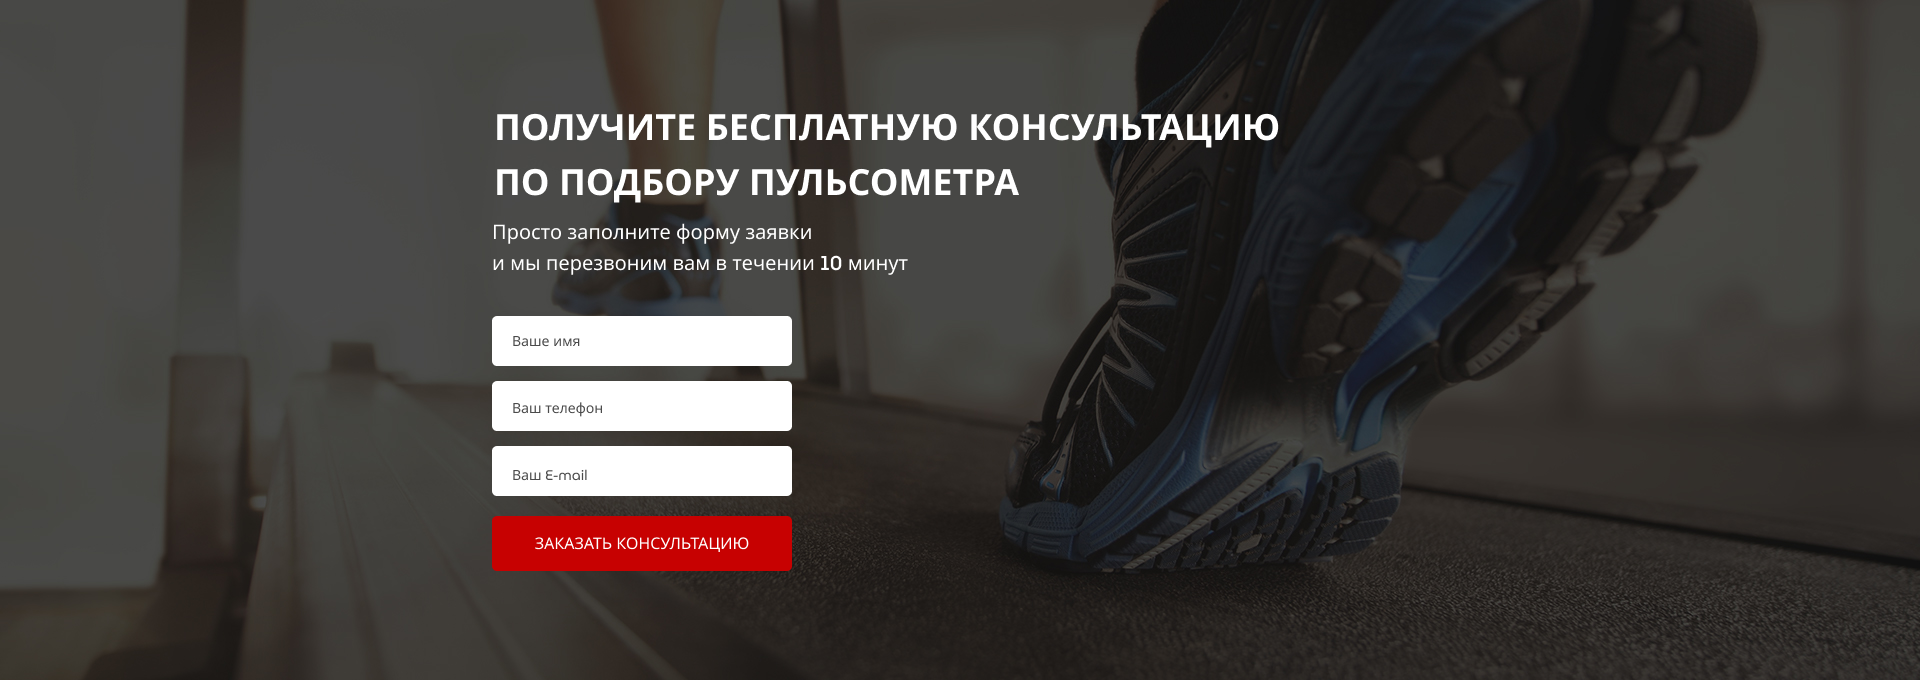
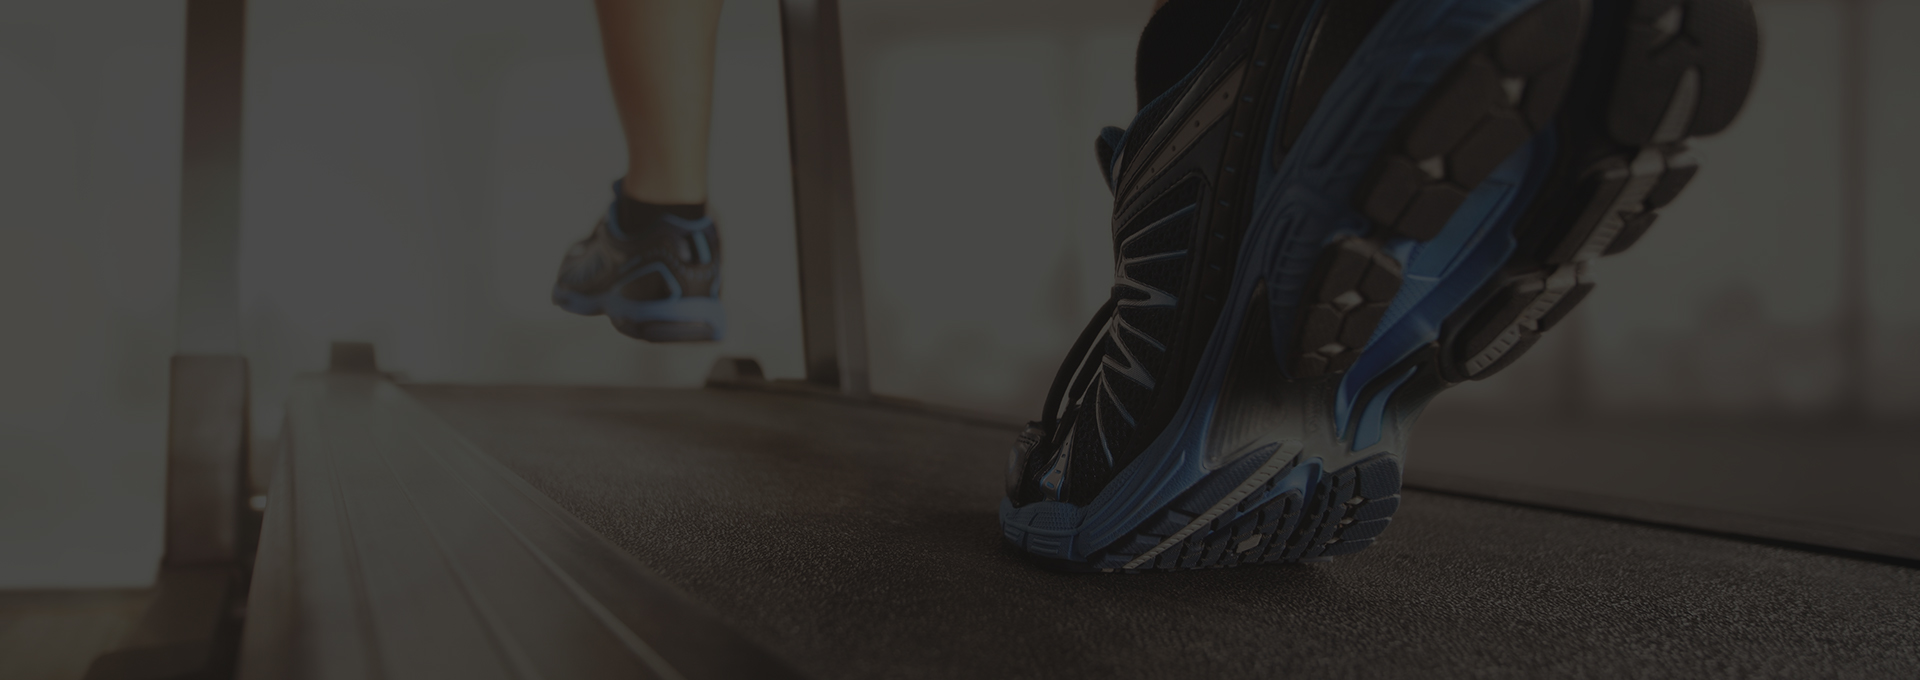
form section with adaptation

diff --git a/48/src/css/style.min.css b/48/src/css/style.min.css
@@ -1,1 +1,1 @@
-*{font-family:"Museo Sans",sans-serif}.container{max-width:950px;margin:0 auto}.promo{min-height:650px;padding:21px 0 93px 0;background:url(../img/bg/girl.png) center center/cover no-repeat}.promo__wrapper{display:flex;flex-direction:column;align-items:flex-end;margin-top:90px}.promo__header{font-weight:700;font-size:42px;line-height:42px;text-transform:uppercase;color:#fff}.promo__subheader{font-weight:500;font-size:24px;line-height:24px;text-transform:uppercase;color:#fff;margin-top:17px}.promo__icons{margin-top:60px;display:flex;width:425px;justify-content:space-between}.promo__icon{width:108px;text-align:center;font-weight:500;font-size:14px;color:#fff}.promo__icon img{display:block;margin:0 auto;margin-bottom:20px}.promo__link{font-weight:500;font-size:16px;margin-top:18px;color:#fff}.promo__link a{text-transform:uppercase;text-decoration:underline;color:#fff}.header{display:flex;justify-content:space-between;align-items:center}.header__logo{width:250px}.header__logo img{width:100%}.header__official{font-weight:300;font-size:12px;text-align:center;color:#fff}.header__official span{display:block;font-size:18px;font-weight:500}.header__phone{display:block;font-weight:700;font-size:18px;color:#fff;text-decoration:none}.header__phone:hover{color:#fff}.header__contacts{display:flex;flex-direction:column;align-items:flex-end}.button{width:153px;height:32px;background:#c70101;border-radius:5px;border:none;font-weight:500;font-size:12px;text-transform:uppercase;color:#fff}.button_main{width:300px;height:50px;font-size:16px;margin-top:67px}.advantages{min-height:433px;padding:73px 0 65px 0;background:#f6f6f6}.advantages__title{font-weight:700;font-size:30px;color:#0d0d0d;text-align:center;margin-top:35px}.advantages__wrapper{display:flex;justify-content:space-between;margin-top:60px}.advantages__wrapper img{display:block;margin:0 auto}.advantages__card{width:270px}.advantages__card:not(:last-child){margin-right:65px}.advantages__subtitle{font-weight:700;font-size:18px;color:#0d0d0d;margin-top:20px;text-align:center;color:#0d0d0d}.advantages__text{margin-top:20px;text-align:center;font-weight:500;font-size:14px;color:#0d0d0d}.advantages__text a{font-size:14px;-webkit-text-decoration-line:underline;text-decoration-line:underline;color:red}@media(max-width:991px){.promo__wrapper{align-items:center}}@media(max-width:629px){.header{justify-content:space-around}.header__logo{display:none}.header__official span{font-size:14px}.header__phone{font-size:13px;width:124px}.header__contacts .button{width:124px}.promo__header{font-size:26px}.promo__subheader{font-size:21px;text-align:center}.promo__icons{justify-content:center}.advantages__title{font-size:21px}.advantages__wrapper{justify-content:center;flex-wrap:wrap}.advantages__wrapper .advantages__card{margin:0}.advantages__subtitle{margin-top:15px}.advantages__text{margin-top:10px}}
+*{font-family:"Museo Sans",sans-serif}.container{max-width:950px;margin:0 auto}.promo{min-height:650px;padding:21px 0 93px 0;background:url(../img/bg/girl.png) center center/cover no-repeat}.promo__wrapper{display:flex;flex-direction:column;align-items:flex-end;margin-top:90px}.promo__header{font-weight:700;font-size:42px;line-height:42px;text-transform:uppercase;color:#fff}.promo__subheader{font-weight:500;font-size:24px;line-height:24px;text-transform:uppercase;color:#fff;margin-top:17px}.promo__icons{margin-top:60px;display:flex;width:425px;justify-content:space-between}.promo__icon{width:108px;text-align:center;font-weight:500;font-size:14px;color:#fff}.promo__icon img{display:block;margin:0 auto;margin-bottom:20px}.promo__link{font-weight:500;font-size:16px;margin-top:18px;color:#fff}.promo__link a{text-transform:uppercase;text-decoration:underline;color:#fff}.header{display:flex;justify-content:space-between;align-items:center}.header__logo{width:250px}.header__logo img{width:100%}.header__official{font-weight:300;font-size:12px;text-align:center;color:#fff}.header__official span{display:block;font-size:18px;font-weight:500}.header__phone{display:block;font-weight:700;font-size:18px;color:#fff;text-decoration:none}.header__phone:hover{color:#fff}.header__contacts{display:flex;flex-direction:column;align-items:flex-end}.button{width:153px;height:32px;background:#c70101;border-radius:5px;border:none;font-weight:500;font-size:12px;text-transform:uppercase;color:#fff}.button_main{width:300px;height:50px;font-size:16px;margin-top:67px}.button_submit{width:100%;height:58px;font-size:16px}.advantages{min-height:433px;padding:73px 0 65px 0;background:#f6f6f6}.advantages__title{font-weight:700;font-size:30px;color:#0d0d0d;text-align:center;margin-top:35px}.advantages__wrapper{display:flex;justify-content:space-between;margin-top:60px}.advantages__wrapper img{display:block;margin:0 auto}.advantages__card{width:270px}.advantages__card:not(:last-child){margin-right:65px}.advantages__subtitle{font-weight:700;font-size:18px;color:#0d0d0d;margin-top:20px;text-align:center;color:#0d0d0d}.advantages__text{margin-top:20px;text-align:center;font-weight:500;font-size:14px;color:#0d0d0d}.advantages__text a{font-size:14px;-webkit-text-decoration-line:underline;text-decoration-line:underline;color:red}.consultation{min-height:680px;padding:100px 0 0 92px;background:url(../img/bg/foot.png) center center/cover no-repeat}.consultation__descr{color:#fff;font-size:20px;font-weight:500}.title{color:#0d0d0d;font-size:30px;font-weight:700;text-align:center;text-transform:uppercase}.title_left{color:#fff;font-size:36px;line-height:55px;text-align:left}.feed-form{margin-top:36px;display:flex;flex-direction:column;width:300px}.feed-form input{height:50px;border-radius:5px;background-color:#fff;margin-bottom:15px;border:none;padding:0 20px;font-weight:300;font-size:14px;color:#4b4b4b}.feed-form input:last-of-type{margin-bottom:20px}@media(max-width:991px){.promo__wrapper{align-items:center}.title_left{font-size:30px;line-height:39px}}@media(max-width:629px){.header{justify-content:space-around}.header__logo{display:none}.header__official span{font-size:14px}.header__phone{font-size:13px;width:124px}.header__contacts .button{width:124px}.promo__header{font-size:26px}.promo__subheader{font-size:21px;text-align:center}.promo__icons{justify-content:center}.advantages__title{font-size:21px}.advantages__wrapper{justify-content:center;flex-wrap:wrap}.advantages__wrapper .advantages__card{margin:0}.advantages__subtitle{margin-top:15px}.advantages__text{margin-top:10px}.title_left{font-size:21px}.consultation{padding-left:7px}.consultation__descr{font-size:18px}}

diff --git a/48/src/index.html b/48/src/index.html
@@ -71,6 +71,22 @@
 
 		</div>
 	</section>
+
+	<div class="consultation">
+		<div class="container">
+			<h2 class="title title_left">Получите бесплатную консультацию <br>
+				по подбору пульсометра </h2>
+			<div class="consultation__descr">Просто заполните форму заявки <br>
+				и мы перезвоним вам в течении 10 минут
+			</div>
+			<form class="feed-form" action="#">
+				<input name="name" required placeholder="Ваше имя" value="" type="text">
+				<input name="phone" required placeholder="Ваш телефон" type="number">
+				<input name="email" required placeholder="Ваш email" value="" type="email">
+				<button class="button button_submit">Заказать консультацию</button>
+			</form>
+		</div>
+	</div>
 </body>
 
 </html>

diff --git a/48/src/sass/base/_media.scss b/48/src/sass/base/_media.scss
@@ -4,6 +4,12 @@
       align-items: center;
     }
   }
+  .title {
+    &_left {
+      font-size: 30px;
+      line-height: 39px;
+    }
+  }
 }
 
 @media (max-width: 629px) {
@@ -55,6 +61,17 @@
     }
     &__text {
       margin-top: 10px;
+    }
+  }
+  .title {
+    &_left {
+      font-size: 21px;
+    }
+  }
+  .consultation {
+    padding-left: 7px;
+    &__descr {
+      font-size: 18px;
     }
   }
 }

diff --git a/48/src/sass/blocks/_forms.scss b/48/src/sass/blocks/_forms.scss
@@ -1,0 +1,21 @@
+.feed-form {
+  margin-top: 36px;
+  display: flex;
+  flex-direction: column;
+  width: 300px;
+  input {
+    height: 50px;
+    border-radius: 5px;
+    background-color: white;
+    margin-bottom: 15px;
+    border: none;
+    padding: 0 20px;
+    font-weight: 300;
+    font-size: 14px;
+    color: #4b4b4b;
+
+    &:last-of-type {
+      margin-bottom: 20px;
+    }
+  }
+}

diff --git a/48/src/sass/blocks/_titles.scss b/48/src/sass/blocks/_titles.scss
@@ -1,0 +1,13 @@
+.title {
+  color: #0d0d0d;
+  font-size: 30px;
+  font-weight: 700;
+  text-align: center;
+  text-transform: uppercase;
+  &_left {
+    color: white;
+    font-size: 36px;
+    line-height: 55px;
+    text-align: left;
+  }
+}

diff --git a/48/src/sass/blocks/_consultation.scss b/48/src/sass/blocks/_consultation.scss
@@ -1,0 +1,10 @@
+.consultation {
+  min-height: 680px;
+  padding: 100px 0 0 92px;
+  background: url("../img/bg/foot.png") center (center/cover) no-repeat;
+  &__descr {
+    color: white;
+    font-size: 20px;
+    font-weight: 500;
+  }
+}

diff --git a/48/src/sass/style.scss b/48/src/sass/style.scss
@@ -12,4 +12,7 @@
 @import "blocks/header.scss";
 @import "blocks/buttons";
 @import "blocks/advantages";
+@import "blocks/consultation";
+@import "blocks/titles";
+@import "blocks/forms";
 @import "base/media";

diff --git a/48/src/sass/blocks/_buttons.scss b/48/src/sass/blocks/_buttons.scss
@@ -14,4 +14,9 @@
     font-size: 16px;
     margin-top: 67px;
   }
+  &_submit {
+    width: 100%;
+    height: 58px;
+    font-size: 16px;
+  }
 }
